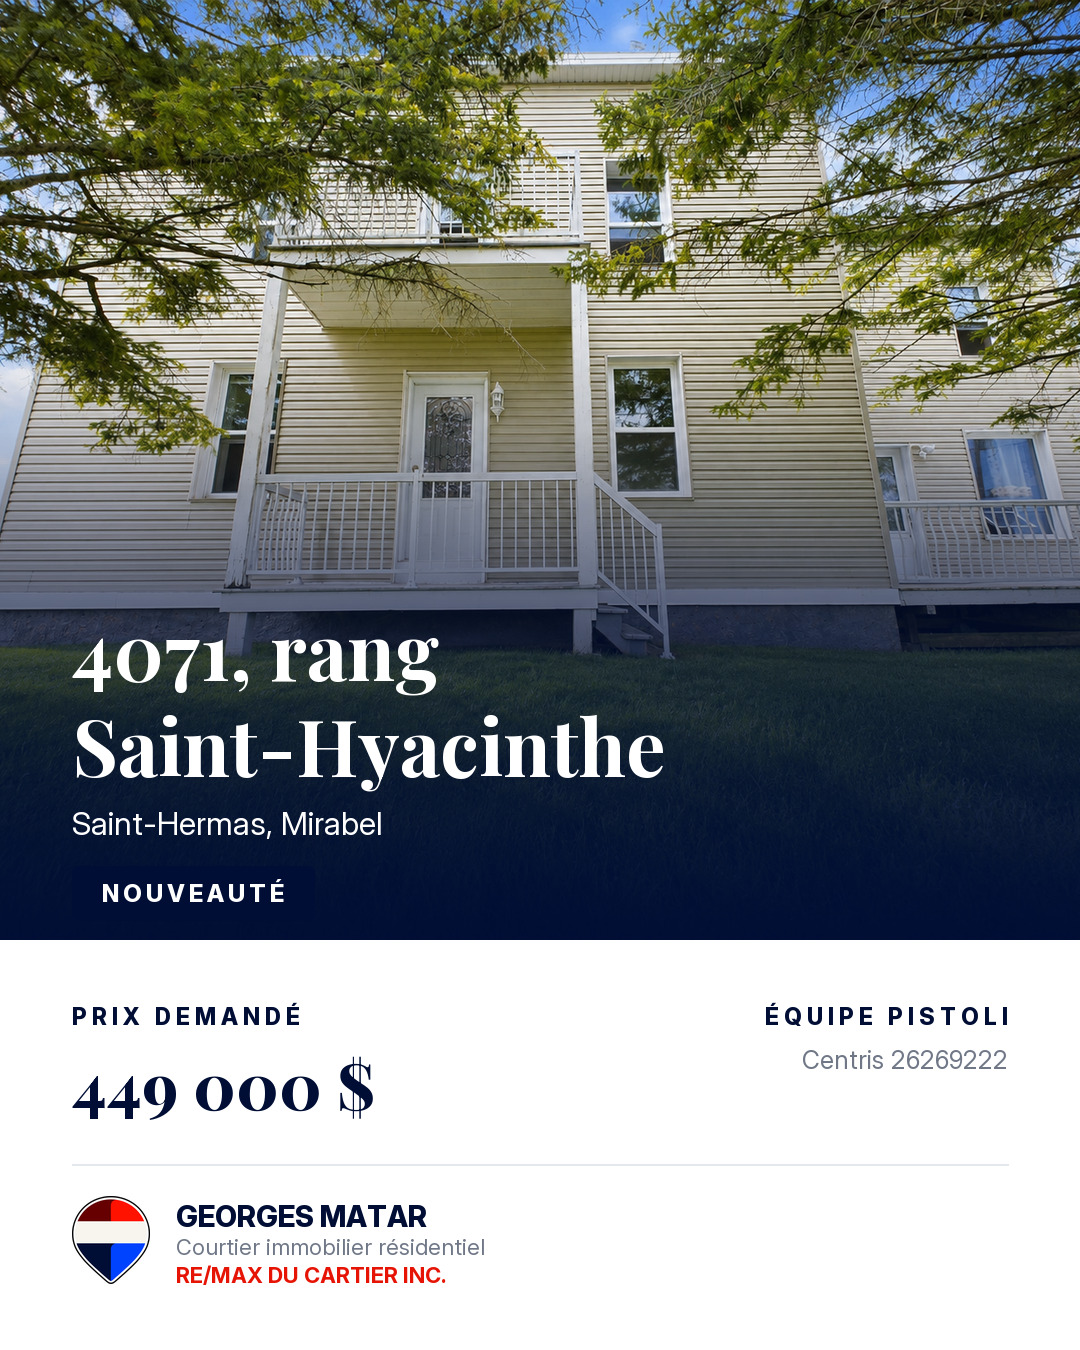
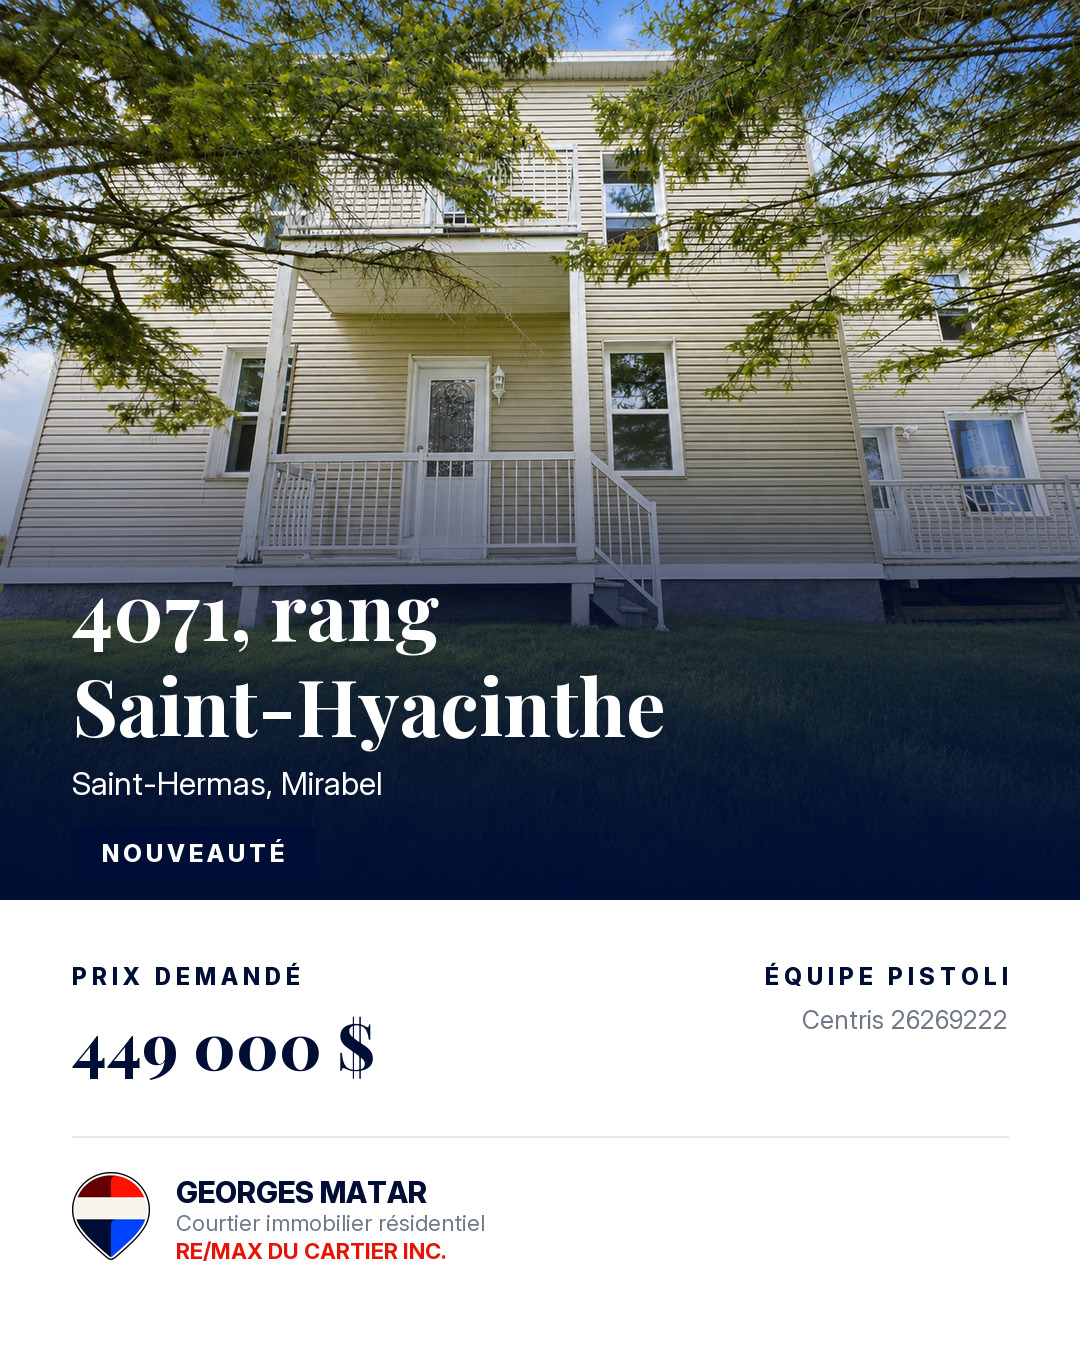
fix: couverture Mirabel alignee sur les deux autres, grange sans garage
La photo de couverture s arretait a 940, ce qui decalait la ligne entre la
photo et le bandeau blanc dans la grille Instagram. Elle revient a 900, comme
le 28, rue St-Hilaire et le 35, terrasse Jacques-Leonard. Le titre descend
dans la photo pour rester sur la pelouse et non sur la galerie blanche.

La slide du terrain dit maintenant Grange de bois sur deux etages, sans le
mot garage. Meme correction dans la legende.

diff --git a/carrousel-instagram/4071 rang saint-hyacinthe mirabel/generer-carrousel.py b/carrousel-instagram/4071 rang saint-hyacinthe mirabel/generer-carrousel.py
@@ -54,9 +54,11 @@ GRANGE = "19-Grange - vue exterieure.png"
 COTE = "25-Vue exterieure 2.png"
 GALERIE = "28-Galerie - vue vers la rue.png"
 
-# la galerie blanche de la couverture tombe pile sous le titre: la photo
-# descend jusqu a 940 pour que le texte se pose sur la pelouse, plus sombre
-COUV_BAS = 940
+# la photo de couverture s arrete a 900 comme dans les deux autres
+# carrousels: dans la grille Instagram, la ligne entre la photo et le bandeau
+# blanc doit tomber a la meme hauteur sur les trois. Le titre descend donc
+# dans la photo pour se poser sur la pelouse plutot que sur la galerie blanche.
+COUV_BAS = 900
 
 PORTRAIT_GEORGES = "georges-matar-decoupe.png"
 PORTRAIT_ROVENA = "rovena-pistoli.jpg"
@@ -361,20 +363,20 @@ def slide1():
     gradient(c, 430, COUV_BAS, 210)
     d = ImageDraw.Draw(c)
 
-    d.text((M, 596), ADRESSE_1, font=playfair(78, 700), fill=WHITE)
-    d.text((M, 692), ADRESSE_2, font=playfair(78, 700), fill=WHITE)
-    d.text((M, 804), SECTEUR, font=inter(32, 400), fill=(255, 255, 255, 225))
-    badge(c, (M, 866), "NOUVEAUTÉ", fill=NAVY, size=24, track=4,
+    d.text((M, 556), ADRESSE_1, font=playfair(78, 700), fill=WHITE)
+    d.text((M, 652), ADRESSE_2, font=playfair(78, 700), fill=WHITE)
+    d.text((M, 764), SECTEUR, font=inter(32, 400), fill=(255, 255, 255, 225))
+    badge(c, (M, 826), "NOUVEAUTÉ", fill=NAVY, size=24, track=4,
           pad=(30, 15), r=6)
 
-    eyebrow(c, (M, 1002), "PRIX DEMANDÉ")
-    d.text((M, 1040), PRIX, font=playfair(64, 800), fill=NAVY)
-    tracked(d, (W - M, 1002), "ÉQUIPE PISTOLI", inter(23, 800), NAVY, 5, "r")
-    d.text((W - M, 1044), "Centris " + CENTRIS, font=inter(25, 400), fill=GREY,
+    eyebrow(c, (M, 962), "PRIX DEMANDÉ")
+    d.text((M, 1000), PRIX, font=playfair(64, 800), fill=NAVY)
+    tracked(d, (W - M, 962), "ÉQUIPE PISTOLI", inter(23, 800), NAVY, 5, "r")
+    d.text((W - M, 1004), "Centris " + CENTRIS, font=inter(25, 400), fill=GREY,
            anchor="ra")
 
-    d.line([M, 1164, W - M, 1164], fill=LINE + (255,), width=2)
-    signature(c, 1196)
+    d.line([M, 1136, W - M, 1136], fill=LINE + (255,), width=2)
+    signature(c, 1172)
     return c
 
 
@@ -495,7 +497,7 @@ def slide6():
     y += 122
 
     for ic, t in [("land", "Terrain de 22 152 pi², plat et gazonné"),
-                  ("barn", "Grange-garage de bois sur deux étages"),
+                  ("barn", "Grange de bois sur deux étages"),
                   ("tree", "Un rang bordé de champs, sans vis-à-vis"),
                   ("train", "Services à Saint-Benoît, autoroute 50")]:
         icon(c, ic, (M, y - 2), 38, NAVY + (255,))

diff --git a/carrousel-instagram/4071 rang saint-hyacinthe mirabel/README.md b/carrousel-instagram/4071 rang saint-hyacinthe mirabel/README.md
@@ -41,7 +41,7 @@ Une maison de campagne construite en 1935, dans la même famille depuis 1990, su
 Deux cuisines, une par étage
 Poêle à combustion lente au rez-de-chaussée
 Vaste galerie de bois face aux champs
-Grange-garage de bois sur deux étages
+Grange de bois sur deux étages
 
 Revêtement extérieur de vinyle refait en 2024.
 Thermopompe centrale de 2022 et génératrice neuve installée en 2025.
